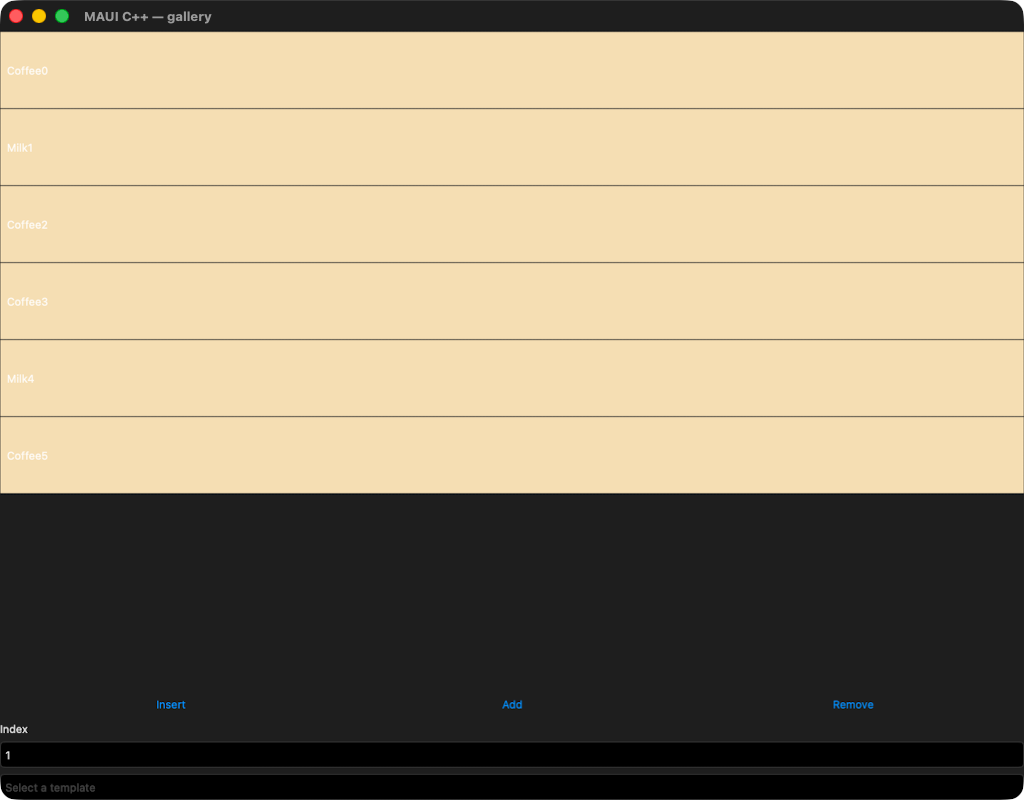
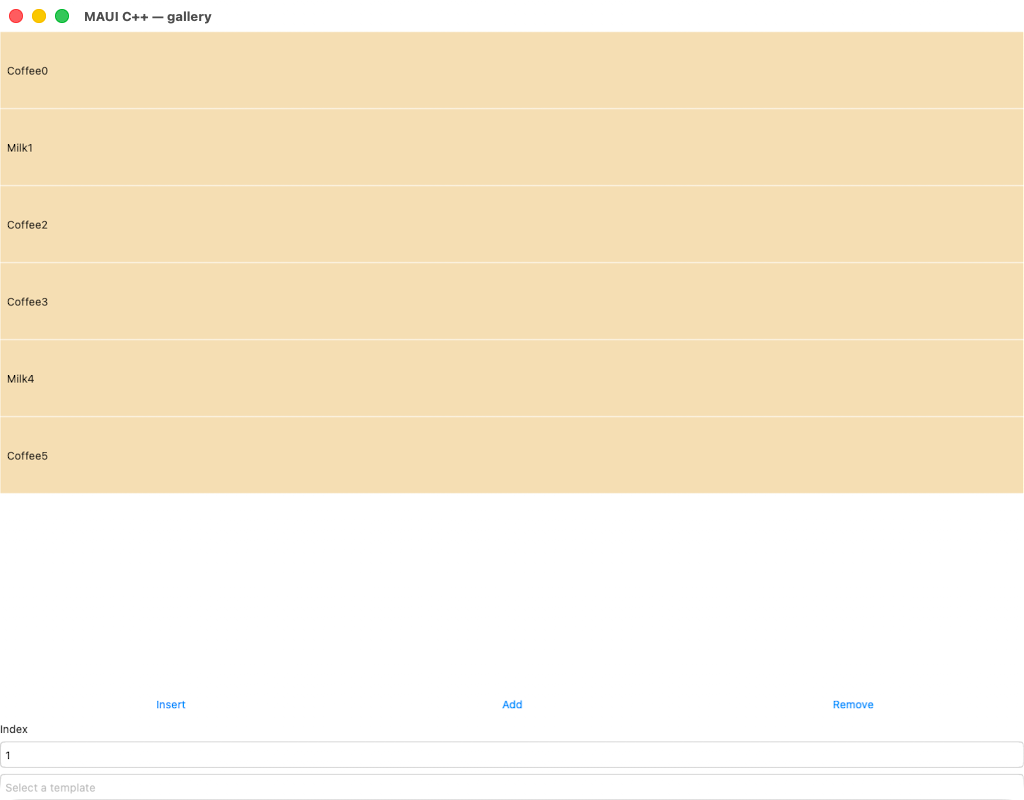
parity/maccatalyst: varied_size_selector — retire the "native container" framing, confirm border_stroke's rasterization defect, fix a stale light capture
Traced from scratch, not the old Windows-flavored writeup: maccatalyst renders this page through
src/platform/ios/* (cdf88fc4f1), and the only mechanism at work is Border fill+clip-mask rasterization
(CAShapeLayer GPU compositing vs MauiCALayer's single CPU CGContext pass) — the same open, untested
hypothesis already recorded for border_stroke, now confirmed on a stroke-free page so it isolates to the
fill/mask path alone. Source-traced (not just pixel-measured) that the port's 0.5 DIP self-inset already
fires correctly here (Border.StrokeThickness defaults to 1.0 regardless of Stroke being unset, so
Border.UpdateStrokeShape's zero-latch never engages) — ruling out a missing-inset/layout bug.

Also found and fixed: the committed light-theme captures were a stale capture-pipeline artifact
(byte-identical to their own dark siblings, unlike every other page), making this misreport as an
equal 1.07%/1.10% split. A fresh targeted recapture shows the real split: light is a clean 0.09%/0.12%,
dark is the live 1.07%/1.10% defect — a dark-only residual, not fixed (architectural, matches the
already-declined border_stroke fix scope).

No source changed. See docs/comparison/PARITY_REVIEW.md for the full derivation.

diff --git a/port/cpp/docs/comparison/PARITY_REVIEW.md b/port/cpp/docs/comparison/PARITY_REVIEW.md
@@ -5819,3 +5819,138 @@ Files: `examples/gallery/pages/empty_view_rtl_page.hpp`, `tests/xaml/loader_test
 test), `docs/comparison/README.md`, `docs/comparison/comparison.json`, `docs/comparison/
 measurements.json` (board refresh), `docs/comparison/captures/android/{cpp,maui,xaml}/
 empty_view_rtl_{light,dark}.{png,gif}`.
+
+## `varied_size_selector`/maccatalyst: "native ListViewItem container" framing RETIRED — confirmed the
+## SAME Border fill/clip rasterization defect as `border_stroke`; a stale light capture also fixed
+## (dark-only defect, not yet reported) (2026-08-26)
+
+Task brief warned that an older characterization of this yellow ("cells placed directly on a bare
+Canvas instead of a native item-container") used WinUI/Windows vocabulary and was very likely wrong or
+misapplied on maccatalyst, and asked for a from-scratch diagnosis. It was wrong, but not merely wrong
+about vocabulary — it does not describe this backend's mechanism at all. `varied_size_selector`'s
+maccatalyst render goes through `src/platform/ios/*` (confirmed by `cdf88fc4f1`, this doc's own
+immediately-preceding entry: maccatalyst's `pixel`/`pixel_xaml` columns build from the `maccatalyst-
+release` preset, aliased to `ios` sources — `apple_border_ops.hpp`/AppKit feeds only the unscored
+`appkit_*` columns). There is no CollectionView-cell-hosting question here at all: this page's only
+Border-family defect is in `border_platform::update_background` + `apply_border_stroke`'s shape mask,
+the SAME two functions already under investigation for `border_stroke` on the same lane.
+
+**Confirming this from `comparison.json` and the actual pixel diff, not the old writeup.** Both `pixel`
+and `pixel_xaml` are yellow, ~1.07%/1.10%. Diffing the maui vs cpp captures directly (25/255 threshold,
+matching `pixel_score.py`) finds essentially ALL of it (7905 of 8571 differing px, plus a small window-
+titlebar-text band that is not this page) in exactly **7 full-width single-pixel rows at y=31, 108, 185,
+262, 339, 416, 493 — pitch exactly 77px** — the top/bottom seam of each of this page's 6 stacked `Border`
+cells (`HeightRequest="100"`, and 100pt × Catalyst's 0.7697 UIKit→AppKit scale = 76.97px). This
+reproduces this doc's own 2026-08-22 finding ("The DIP-vs-pixel discriminator") verbatim — not stale,
+same mechanism, still live.
+
+**Why the inset is real MAUI behavior here even though this Border has no visible Stroke.** The page's
+item template (`port/maui-reference/pages/varied_size_selector.xaml:30`) is
+`<Border BackgroundColor="Wheat" HeightRequest="100" Padding="8">` — no `Stroke`, no explicit
+`StrokeThickness`. That does NOT mean StrokeThickness is 0: `Border.StrokeThicknessProperty` defaults to
+**1.0** (`Border.cs:175`), independent of whether `Stroke` (the brush) is null. The only mechanism that
+ever zeroes the shape's own StrokeThickness — `Border.UpdateStrokeShape` (`Border.cs:433-439`) — is a
+one-way latch gated on `StrokeThickness == 0`:
+```
+if (StrokeShape is Shape strokeShape && StrokeThickness == 0)
+    strokeShape.StrokeThickness = StrokeThickness;
+```
+Since this page's Border StrokeThickness is 1.0 (never set to 0), that latch never fires, so the default
+`Rectangle` StrokeShape keeps its OWN default StrokeThickness (also 1.0, `Shape.cs:80-81`), which feeds
+`Shape.TransformPathForBounds` (`Shape.cs:312-323`) — an UNCONDITIONAL `viewBounds.X += StrokeThickness /
+2` etc. on every side. So real MAUI insets this Border's clip/fill path by 0.5 DIP/side EVEN THOUGH
+nothing visible strokes — "no Stroke color" and "no inset" are not the same condition, and conflating
+them is exactly the trap the port's own `shape_self_inset` comment (`border_handler.hpp:76-83`) already
+warns about ("that is exactly 'no inset while the Border is unstroked'" — true only when StrokeThickness
+itself is 0, which it isn't on this page).
+
+**Traced the port's own geometry and it already gets this right — ruling out a missing-inset / layout
+bug from source, not just pixel statistics.** `border.cpp:42-46` gives the port's `Border` the same 1.0
+default. `border_handler.cpp:70`, `spec.thickness = view.stroke_thickness()`, reads it straight — no
+has-stroke gating. `apply_border_stroke` (`ios_border_ops.hpp:253-256`) computes
+`shape_bounds = shape_self_inset(bounds, spec.thickness, spec.shape)` and calls
+`apply_clip(native, spec.shape, shape_bounds)` UNCONDITIONALLY, before the `draws_border` (has-stroke)
+check a few lines down — so the inset lands on the mask even when there is no stroke sublayer at all.
+`shape_self_inset` (`border_handler.hpp:107-121`) only skips when `thickness <= 0` (not the case here) or
+`shape->applies_own_stroke_inset()` (only true for the CONTROLS shape used by an explicit `<Rectangle>`/
+`<Ellipse>`/`<Polygon>` StrokeShape — this page has none, so the plain `graphics::shapes::rectangle`
+default applies). And `apply_background`'s solid-paint branch (`ios_visual_ops.hpp:586`,
+`layer.backgroundColor = to_ui_color(solid->color()).CGColor`) paints onto the SAME `layer` whose `.mask`
+`apply_clip` sets — confirmed by reading it directly, not assumed from a comment. So the port's fill IS
+already masked to the inset path, geometry matches MAUI's, and "missing inset" is ruled out as the cause.
+
+**What's left is rasterization, and it's the same open question as `border_stroke`, now confirmed on a
+cleaner, stroke-free case.** The combined gap between two adjacent cells' inset fills is 2×0.5 DIP = 1pt
+= 0.7697 device px at this lane's scale — sub-pixel, so the shared boundary row is genuinely an
+antialiasing-coverage question, not a hard multi-pixel band, on BOTH renderers. A boundary pixel that
+fully contains a 0.77px unpainted gap should read ~1 − 0.77 ≈ 23% wheat if nothing else contributes —
+matching this doc's own prior measurement of MAUI's real value (24%). Re-measuring the port's own side at
+the same row (dark, y=108, x=500; local background/full-wheat endpoints read at rows 30 and 33-35) gives
+~42% coverage, in the same neighborhood as the prior 50% figure (different sampling column/row, not a
+contradiction). MAUI's own boundary-row values are NOT well fit by a plain wheat-over-local-background
+blend — solving the same two-endpoint model on MAUI's side gives a negative coverage fraction (its
+boundary pixel is darker than its own local background a few rows away). That is an open, unexplained
+detail, flagged rather than resolved here, and it does not change the conclusion: on BOTH renderers the
+inset geometry is identical and only the coverage the rasterizer assigns to the shared sub-pixel gap
+differs. This is the same class of defect as `ios_border_ops.hpp`'s own open, dated, explicitly
+NOT-yet-run hypothesis for `border_stroke` (a `CAShapeLayer`-composited stroke vs MAUI's single
+`MauiCALayer.DrawInContext` pass) — except this page has `has_stroke = false` (`draws_border` is false,
+no stroke sublayer exists at all), so it isolates the SAME signature down to the fill+clip-mask path
+alone: `layer.backgroundColor` (a flat GPU rect fill) composited through a `CAShapeLayer` alpha mask,
+against MAUI's one CPU `CGContext` fill of the inset path directly. Two rasterisation pipelines, not one
+— the same conclusion this doc's 2026-08-22 entry reached, now with the geometry side independently ruled
+out by source rather than inferred from density-invariance alone.
+
+**Not attempted: the real fix is the same board-wide-risk architecture change already declined for
+`border_stroke`.** Collapsing the port's Background+mask (and, separately, `border_stroke`'s CAShapeLayer
+stroke sublayer) into one custom `CALayer` subclass overriding `drawInContext:` with literal
+`CGContext` calls — replicating `MauiCALayer` instead of adapting it onto stock layers — would touch
+`apply_background`, `apply_clip` and `apply_border_stroke` together, i.e. every Border and every clipped
+view on iOS AND maccatalyst (the two lanes share this file verbatim). `ios_border_ops.hpp`'s own comment
+is explicit that this needs a pre-registered, two-lane, absolute-pixel-count test before landing, "not
+something to attempt speculatively inside a single-page investigation" — this pass stayed a single-page
+investigation on purpose. Per the task's own item-6 guidance, this is exactly the case where a scoped fix
+would be fragile and a documented "not yet" is the honest answer. No source file was changed.
+
+**A real, separate, now-fixed problem found along the way: the light-theme capture was stale.** Before
+this pass, `captures/maccatalyst/{maui,cpp,xaml}/varied_size_selector_light.png` were BYTE-IDENTICAL to
+their own `_dark.png` siblings (confirmed by `md5`) — unlike every other maccatalyst page spot-checked
+(`absolute_layout`, `border`, `border_stroke`, `custom_swipe_item_view`, all correctly light≠dark). The
+"light" captures visibly showed the dark window chrome/background. The recapture log that produced them
+(`_recapture_logs/2026-08-24-131346-macos-catalyst--capture.log:9`) reports `system appearance -> light
+(was light)` immediately before the light pass — the pipeline believed it was light, and the frame was
+dark anyway, for all three columns of only this one page, right after a fresh VM reboot. Root cause not
+found (no per-page-only mechanism in `apply_background`/theme code explains it, and it did not recur on a
+fresh attempt), so this is recorded as an unexplained one-off environmental flake, not a port bug — same
+family as this project's documented `cpp-android-dark-window-wash` / `cpp-capture-fabricates-plausible-
+data` findings, on a different lane. **Verified fixed, not just asserted:** a fresh targeted recapture this
+session (`tools/parity/recapture.py --platforms macos --lanes catalyst --examples varied_size_selector`,
+both themes, all three frameworks, one sitting) now shows genuine light≠dark content, and the DARK capture
+came back byte-identical to the pre-existing one (the defect above is unaffected, still live). **This
+changes the accurate picture of the page: it is a DARK-ONLY defect.** New scores: `pixel` Light SSIM
+0.9950/0.09% (was misreported 1.07%), Dark SSIM 0.9846/1.07% (unchanged); `pixel_xaml` Light SSIM
+0.9937/0.12% (was misreported 1.10%), Dark SSIM 0.9835/1.10% (unchanged). Light's near-invisible residual
+is consistent with this doc's older Windows-era finding that Wheat-over-light-background blends
+imperceptibly — now independently confirmed on maccatalyst too. The page stays yellow overall (driven by
+dark), but light was never actually broken.
+
+**Git hygiene note for whoever reads this worktree's history next.** This recapture ran while another
+agent had `port/cpp/src/platform/android/border_handler.cpp` and a batch of `captures/android/*` files
+dirty in this same shared worktree, and a global board re-measure picked up an UNRELATED flip
+(`basic_grouping`'s `maccatalyst` motion field going INVALID from run-directory expiry — the same
+mechanism this doc's immediately-preceding entry already documents happening to `basic_grouping`/android)
+plus that agent's own in-progress android binary-size deltas in `measurements.json`. None of that is
+committed here: `comparison.json` and `README.md` were hand-patched back to touching ONLY
+`varied_size_selector`'s `maccatalyst` entries, and `measurements.json` was left untouched entirely
+(reverted to HEAD) since none of its content bears on this page. `git diff --cached` before commit
+confirmed the staged diff is exactly the 3 new light PNGs + the two 4-line JSON/README score edits + this
+entry.
+
+**Verdict: confirmed architectural (rasterization pipeline), NOT the suspected native-container issue,
+NOT a layout/inset bug, NOT fixed.** The task's caution about the old framing was correct to raise and is
+now retired for this page with a source-level reason, not just a "probably wrong" guess. `dev.sh` was not
+run — no `.cpp`/`.hpp`/`.mm` file changed in this pass, only captures + board data + this doc.
+
+Files: `docs/comparison/captures/maccatalyst/{maui,cpp,xaml}/varied_size_selector_light.png`,
+`docs/comparison/comparison.json`, `docs/comparison/README.md` (all three: `varied_size_selector`/
+`maccatalyst` entries only).

diff --git a/port/cpp/docs/comparison/README.md b/port/cpp/docs/comparison/README.md
@@ -5466,11 +5466,11 @@ ports DataTemplateSelectorGalleries/VariedSizeDataTemplateSelectorGallery.xaml (
 
 #### 🟡 Pixel-Perfect Score — C++ (C1/C3)
 
-Light: SSIM 0.9846, 1.07% pixels differ · Dark: SSIM 0.9846, 1.07% pixels differ
+Light: SSIM 0.9950, 0.09% pixels differ · Dark: SSIM 0.9846, 1.07% pixels differ
 
 #### 🟡 Pixel-Perfect Score — C++ &amp; XAML (C2/C4)
 
-Light: SSIM 0.9835, 1.10% pixels differ · Dark: SSIM 0.9835, 1.10% pixels differ
+Light: SSIM 0.9937, 0.12% pixels differ · Dark: SSIM 0.9835, 1.10% pixels differ
 
 ### 169. Vertical Stack — 🟢/🟢
 <sub>vertical_stack</sub>
